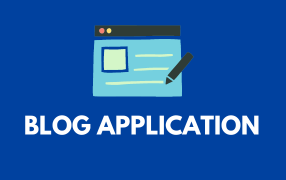
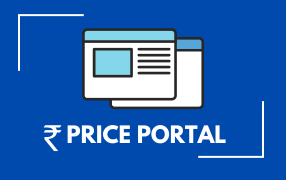
updates

Changed region(s): [[0.2797, 0.1389, 0.7273, 0.6111], [0.0839, 0.5556, 0.9231, 0.8889], [0.0559, 0.0556, 0.3077, 0.3889]]

diff --git a/hobby-projects.html b/hobby-projects.html
@@ -26,6 +26,11 @@
       background: radial-gradient(circle, rgba(238,174,202,1) 0%, rgba(148,187,233,1) 100%);
     }
   </style>
+  <script>
+    function projectOnClick() {
+    alert("Project will be uploaded soon !");
+  }
+  </script>
 </head>
 <body>
   <header id="header" class="fixed-top header-inner-pages">
@@ -70,7 +75,40 @@
             <div class="card" style="width: 18rem;box-shadow: rgba(0, 0, 0, 0.25) 0px 54px 55px, rgba(0, 0, 0, 0.12) 0px -12px 30px, rgba(0, 0, 0, 0.12) 0px 4px 6px, rgba(0, 0, 0, 0.17) 0px 12px 13px, rgba(0, 0, 0, 0.09) 0px -3px 5px;">
               <img class="card-img-top" src="assets/img/53.png" target="_blank" alt="Card image cap">
               <div class="card-body">
-                <h5 class="card-title">Blog Application</h5><br>
+                <h5 class="card-title">Price Portal</h5><br>
+                <a href="https://hollas-price-portal.netlify.app/home" target="_blank" class="btn btn-primary">Click here</a>
+              </div>
+            </div>
+          </div>
+        </div>
+        <div class="col-lg-4">
+          <div class="journal-info d-flex justify-content-center">
+            <div class="card" style="width: 18rem;box-shadow: rgba(0, 0, 0, 0.25) 0px 54px 55px, rgba(0, 0, 0, 0.12) 0px -12px 30px, rgba(0, 0, 0, 0.12) 0px 4px 6px, rgba(0, 0, 0, 0.17) 0px 12px 13px, rgba(0, 0, 0, 0.09) 0px -3px 5px;">
+              <img class="card-img-top" src="assets/img/54.png" target="_blank" alt="Card image cap">
+              <div class="card-body">
+                <h5 class="card-title">Resume Builder</h5><br>
+                <a href="" class="btn btn-primary" onclick="projectOnClick()">Click here</a>
+              </div>
+            </div>
+          </div>
+        </div>
+        <div class="col-lg-4">
+          <div class="journal-info d-flex justify-content-center">
+            <div class="card" style="width: 18rem;box-shadow: rgba(0, 0, 0, 0.25) 0px 54px 55px, rgba(0, 0, 0, 0.12) 0px -12px 30px, rgba(0, 0, 0, 0.12) 0px 4px 6px, rgba(0, 0, 0, 0.17) 0px 12px 13px, rgba(0, 0, 0, 0.09) 0px -3px 5px;">
+              <img class="card-img-top" src="assets/img/55.png" target="_blank" alt="Card image cap">
+              <div class="card-body">
+                <h5 class="card-title">Travel Booking App</h5><br>
+                <a href="" class="btn btn-primary" onclick="projectOnClick()">Click here</a>
+              </div>
+            </div>
+          </div>
+        </div>
+        <div class="col-lg-4">
+          <div class="journal-info d-flex justify-content-center">
+            <div class="card" style="width: 18rem;box-shadow: rgba(0, 0, 0, 0.25) 0px 54px 55px, rgba(0, 0, 0, 0.12) 0px -12px 30px, rgba(0, 0, 0, 0.12) 0px 4px 6px, rgba(0, 0, 0, 0.17) 0px 12px 13px, rgba(0, 0, 0, 0.09) 0px -3px 5px;">
+              <img class="card-img-top" src="assets/img/56.png" target="_blank" alt="Card image cap">
+              <div class="card-body">
+                <h5 class="card-title">DSA Projects</h5><br>
                 <a href="" class="btn btn-primary">Click here</a>
               </div>
             </div>
